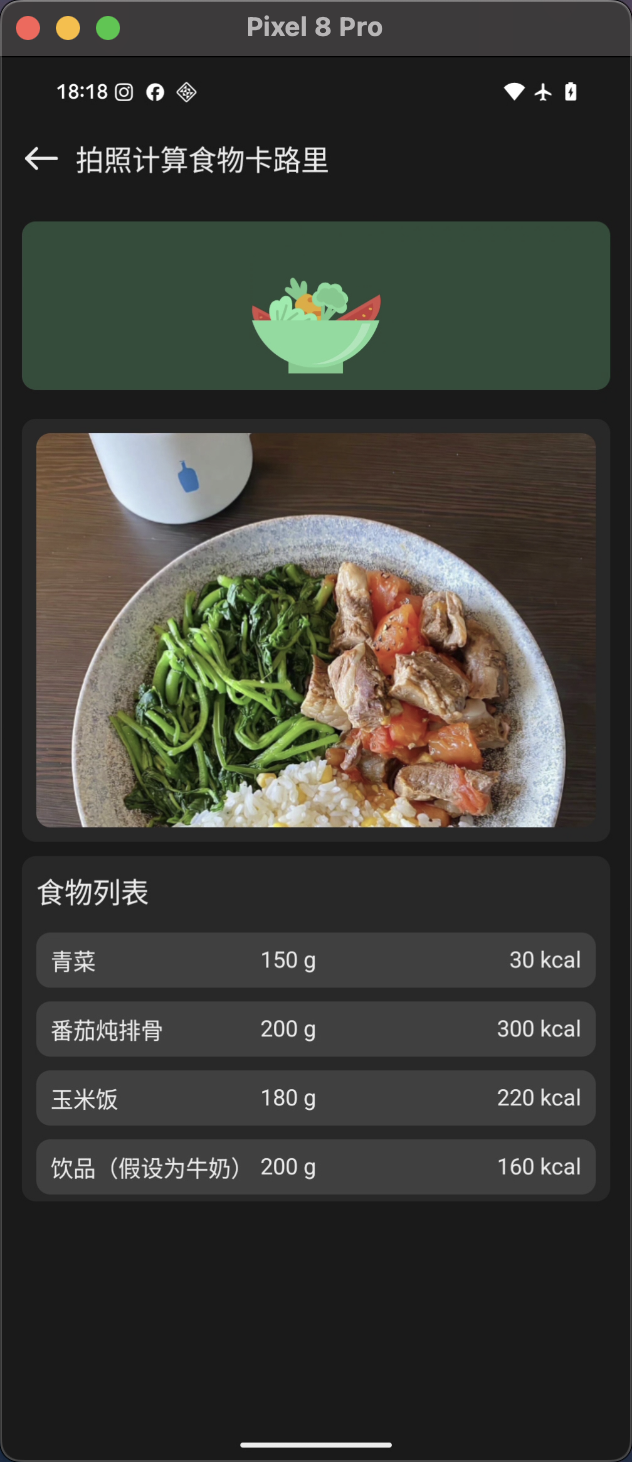
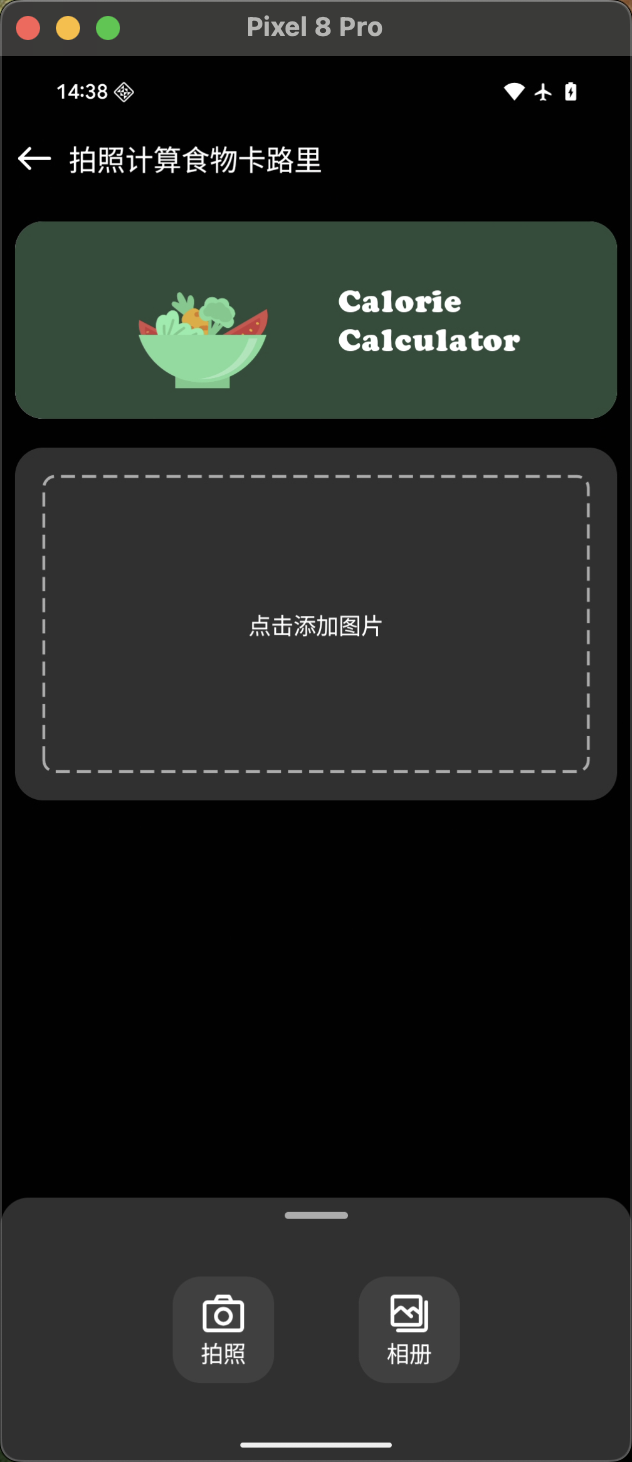
feat:更新运行截图和README

diff --git a/README.md b/README.md
@@ -1,23 +1,33 @@
 # CMP跨平台AI助手
-基于Compose Multiplatform跨平台技术，构建多个AI驱动的应用场景。
+基于Compose Multiplatform跨平台技术，构建的面向Android和IOS平台的AI驱动的功能合集应用。
+目前已开发的功能模块：
+* 社交圈文案生成器，根据主题和风格，自动生成文案，避免发朋友圈，抖音等没用文案灵感，到处借鉴。
+* 卡路里计算器，根据相册图片或者调动相机拍照，交由AI大模型分析，计算每道菜的重量和对应卡路里，帮助用户跟踪自身热量摄入。
+* 英语口语练习，根据系统自带的语音识别能力，将用户语音当作英语对话模型输入，练习英语。
 
 ## AI模型选取
-基础对话api选用deepseek官方api，多模态能力介入了字节的豆包支持。
+基础对话api选用deepseek官方的api，多模态如图片识别能力，则是选取集成了字节的doubao-vision大模型。
 
-## 应用部分截图
+## 应用运行截图
 ### 首页
 <div style="display: flex; justify-content: center;">
-  <img src="/screenshots/pic_android_mainpage.png" alt="Image 1" style="width: 45%; margin-right: 5%;">
-  <img src="/screenshots/pic_ios_mainpage.png" alt="Image 2" style="width: 45%;">
+  <img src="/screenshots/pic_android_main_page.png" alt="Image 1" style="width: 45%; margin-right: 5%;">
+  <img src="/screenshots/pic_ios_main_page.png" alt="Image 2" style="width: 45%;">
 </div>
 
-### 文案生成
+### 设置页面
 <div style="display: flex; justify-content: center;">
-  <img src="/screenshots/pic_android_copy_writing.png" alt="Image 1" style="width: 45%; margin-right: 5%;">
-  <img src="/screenshots/pic_ios_copy_writing.png" alt="Image 2" style="width: 45%;">
+  <img src="/screenshots/pic_android_settings.png" alt="Image 1" style="width: 45%; margin-right: 5%;">
+  <img src="/screenshots/pic_ios_settings.png" alt="Image 2" style="width: 45%;">
 </div>
 
-### 卡路里识别
+### 社交圈文案生成
+<div style="display: flex; justify-content: center;">
+  <img src="/screenshots/pic_android_social_copywriting.png" alt="Image 1" style="width: 45%; margin-right: 5%;">
+  <img src="/screenshots/pic_ios_social_copywriting.png" alt="Image 2" style="width: 45%;">
+</div>
+
+### 食物卡路里计算
 <div style="display: flex; justify-content: center;">
   <img src="/screenshots/pic_ios_calorie.png" alt="Image 1" style="width: 45%; margin-right: 5%;">
   <img src="/screenshots/pic_android_calorie.png" alt="Image 2" style="width: 45%;">
